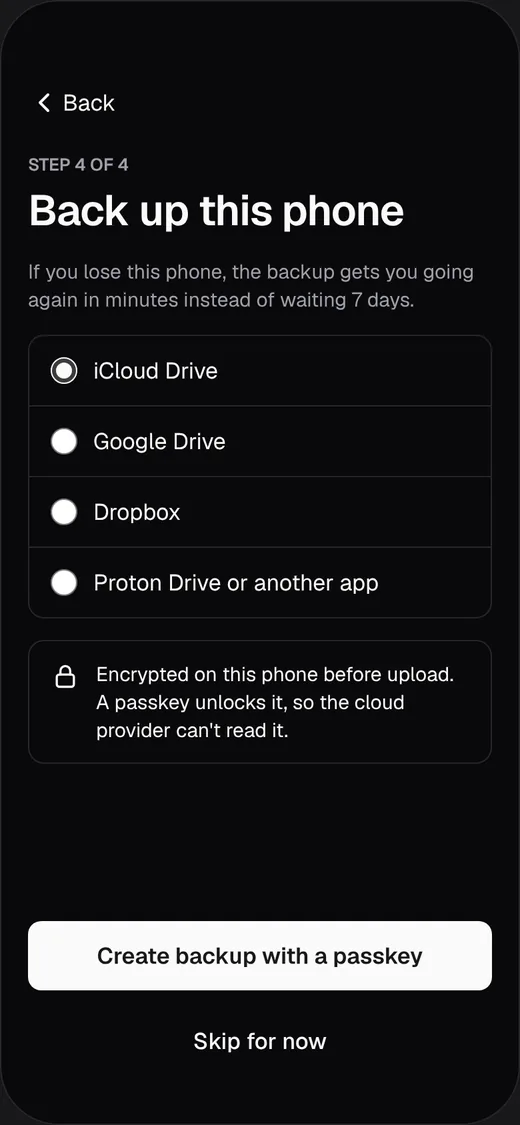
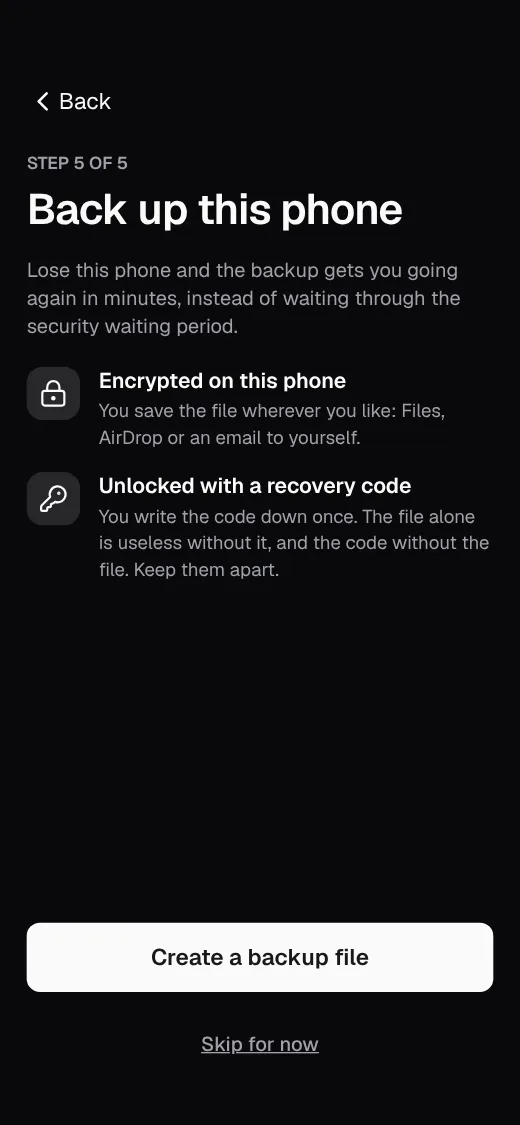
site: describe the backup as it works now
Test builds back up with a recovery code plus a backup file, not a passkey and a
cloud. Updates the phone key's description, the lost-phone episode text and the
setup step, and swaps the step's picture for the app's own backup screen
(light and dark).

Claude-Session: https://claude.ai/code/session_01ScL3BP1Yp5A8vYx4vddmNN

diff --git a/site/index.html b/site/index.html
@@ -142,7 +142,7 @@
           <img class="key-shot" src="media/key-phone.webp" width="800" height="600" loading="lazy" alt="A plain black phone, screen off, on linen.">
           <p class="eyebrow">Key 2</p>
           <h3>Your phone</h3>
-          <p>Everyday payments with Face ID. The key sits behind your phone's biometrics, with an encrypted backup in your own cloud that a passkey unlocks.</p>
+          <p>Everyday payments with Face ID. The key sits behind your phone's biometrics, with an encrypted backup that only your recovery code unlocks.</p>
         </li>
         <li class="tile">
           <img class="key-shot" src="media/key-hardware.webp" width="800" height="600" loading="lazy" alt="A small matte black hardware wallet with a tiny screen and two buttons, on linen.">
@@ -252,7 +252,7 @@
           <div class="episode-copy">
             <div class="case">
               <p class="case-q">Lost it?</p>
-              <p>Got your backup? Restore it on a new phone with your passkey. No waiting.</p>
+              <p>Got your backup? Restore it on a new phone with your recovery code. No waiting.</p>
               <p>No backup? Your hardware wallet and guardian start a recovery. It waits 7, 14 or 30 days and alerts you and your contacts every day. Any of you can cancel a fake one.</p>
             </div>
             <div class="case">
@@ -534,11 +534,11 @@
         <li class="step">
           <picture>
             <source srcset="img/phone-onb-backup-dark.webp" media="(prefers-color-scheme: dark)">
-            <img class="phone" src="img/phone-onb-backup.webp" width="520" height="1125" loading="lazy" alt="Onboarding step 4 of 4, Back up this phone: pick iCloud Drive, Google Drive, Dropbox or another app. The backup is encrypted on the phone and a passkey unlocks it.">
+            <img class="phone" src="img/phone-onb-backup.webp" width="520" height="1125" loading="lazy" alt="Onboarding, last step, Back up this phone: the backup is encrypted on the phone and saved as a file wherever you like, and a recovery code you write down unlocks it. Create a backup file.">
           </picture>
           <p class="mono step-n">04</p>
           <h3>Back up this phone</h3>
-          <p>Encrypted on the phone, unlocked by a passkey, kept in the cloud you choose.</p>
+          <p>Encrypted on the phone. Save the file wherever you like, write the recovery code on paper, and keep the two apart.</p>
         </li>
       </ol>
     </div>

diff --git a/site/README.md b/site/README.md
@@ -13,7 +13,7 @@ a plain stack of cards and reads the same.
 | `media/films/` | The films for the web: "Nobody in the middle" in the hero, the three "If a key goes missing" episodes in the key picker, and in "Watch" the three short explainers (`v1`–`v3`) and the six setup tutorials (`t1`–`t6`). 720p H.264, a poster and a WebVTT captions file each. The films and explainers have captions burned in too. Nothing loads until someone presses play. Exported from the marketing repo with `render/web-export.py` |
 | `js/story.js` | Scroll scenes: sticky stages, shot timing, video scrubbing. Progressive enhancement only |
 | `404.html` | Not-found page (Vercel serves it automatically) |
-| `img/` | Phone screenshots, rendered from `design/screens` (light and dark WebP) |
+| `img/` | Phone screenshots, rendered from `design/screens` (light and dark WebP). `phone-onb-backup` is the app's own backup step (recovery code plus file), captured from its web build in Demo mode without the demo strip |
 | `media/` | Photos (WebP) and three short muted video loops (H.264 MP4, under 1 MB each) taken from the launch film footage, plus one generated still of the three keys. Loops are hidden for people who prefer reduced motion; the poster image stays. |
 | `fonts/` | Geist and Geist Mono (latin, variable `woff2`) with their OFL license texts |
 | `favicon.svg` | The logo |
